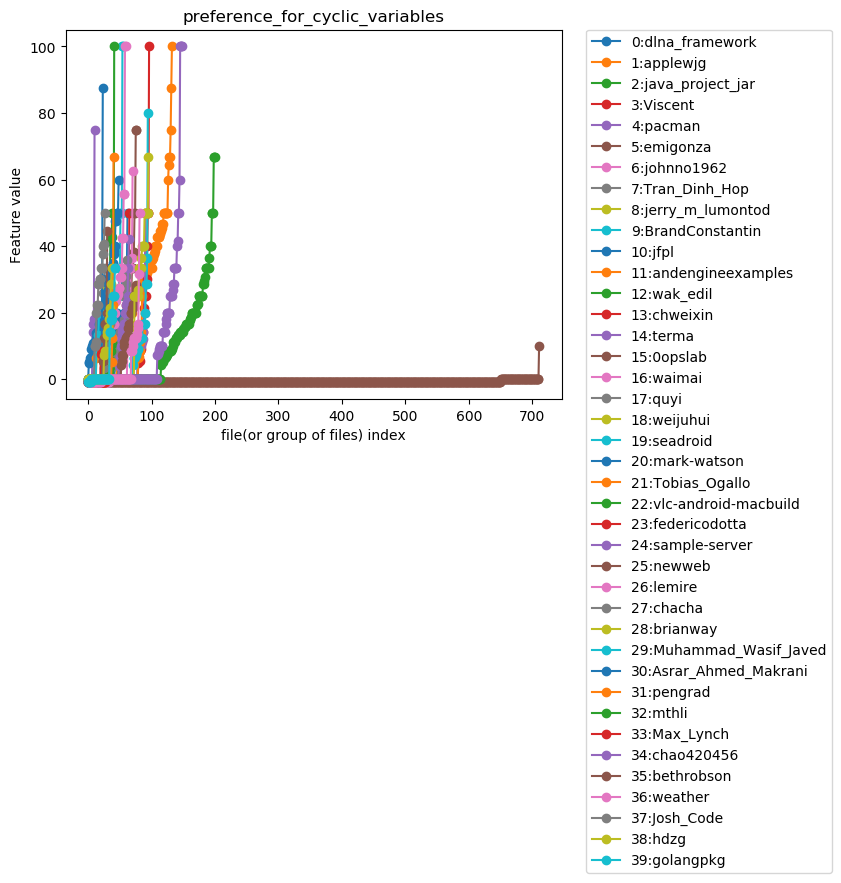
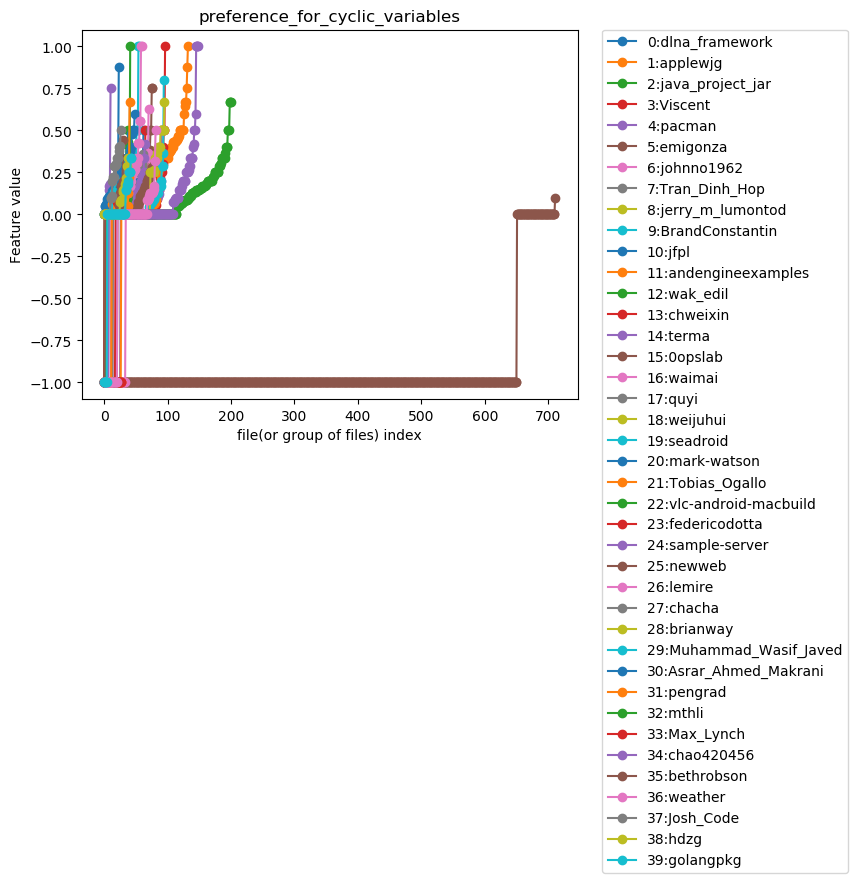
Changed percentage to ratio.

diff --git a/psob_authorship/features/java/ast_metrics/StatementsMetricsCalculator.py b/psob_authorship/features/java/ast_metrics/StatementsMetricsCalculator.py
@@ -7,8 +7,7 @@ import torch
 from psob_authorship.features.java.ast.Ast import Ast
 from psob_authorship.features.java.ast.AstNode import AstNode
 from psob_authorship.features.java.ast.AstVisitor import AstVisitor
-from psob_authorship.features.utils import divide_with_handling_zero_division, \
-    divide_percentage_with_handling_zero_division, divide_nonnegative_with_handling_zero_division, \
+from psob_authorship.features.utils import divide_nonnegative_with_handling_zero_division, \
     divide_ratio_with_handling_zero_division
 
 
@@ -17,39 +16,39 @@ class StatementsMetricsCalculator:
 
     def get_metrics(self, filepaths: Set[str]) -> torch.Tensor:
         return torch.tensor([
-            self.percentage_of_for_statements_to_all_loop_statements(filepaths),
-            self.percentage_of_if_statements_to_all_conditional_statements(filepaths),
+            self.ratio_of_for_statements_to_all_loop_statements(filepaths),
+            self.ratio_of_if_statements_to_all_conditional_statements(filepaths),
             self.average_number_of_methods_per_class(filepaths),
-            self.percentage_of_catch_statements_when_dealing_with_exceptions(filepaths),
+            self.ratio_of_catch_statements_when_dealing_with_exceptions(filepaths),
             self.ratio_of_branch_statements(filepaths),
             self.ratio_of_try_structure(filepaths),
             self.average_number_of_interfaces_per_class(filepaths)
         ])
 
-    def percentage_of_for_statements_to_all_loop_statements(self, filepaths: Set[str]) -> float:
+    def ratio_of_for_statements_to_all_loop_statements(self, filepaths: Set[str]) -> float:
         """
         Loop statements are: while (including do while) and for.
         :param filepaths: paths to files for which metric should be calculated
         :return: (number of for statements) / (number of all loop statements) * 100
         """
-        return divide_percentage_with_handling_zero_division(
+        return divide_ratio_with_handling_zero_division(
             sum([self.fors_for_file[filepath] for filepath in filepaths]),
             sum([self.fors_for_file[filepath] + self.whiles_for_file[filepath] for filepath in filepaths]),
             self.LOGGER,
-            "calculating percentage of for statements to all loop statements for " + str(filepaths)
+            "calculating ratio of for statements to all loop statements for " + str(filepaths)
         )
 
-    def percentage_of_if_statements_to_all_conditional_statements(self, filepaths: Set[str]) -> float:
+    def ratio_of_if_statements_to_all_conditional_statements(self, filepaths: Set[str]) -> float:
         """
         Conditional statements are: if (including if else) and switch.
         :param filepaths: paths to files for which metric should be calculated
         :return: (number of if statements) / (number of all conditional statements) * 100
         """
-        return divide_percentage_with_handling_zero_division(
+        return divide_ratio_with_handling_zero_division(
             sum([self.ifs_for_file[filepath] for filepath in filepaths]),
             sum([self.ifs_for_file[filepath] + self.switches_for_file[filepath] for filepath in filepaths]),
             self.LOGGER,
-            "calculating percentage of if statements to all conditional statements for " + str(filepaths)
+            "calculating ratio of if statements to all conditional statements for " + str(filepaths)
         )
 
     def average_number_of_methods_per_class(self, filepaths: Set[str]) -> float:
@@ -65,7 +64,7 @@ class StatementsMetricsCalculator:
             "calculating average number of methods per class for " + str(filepaths)
         )
 
-    def percentage_of_catch_statements_when_dealing_with_exceptions(self, filepaths: Set[str]) -> float:
+    def ratio_of_catch_statements_when_dealing_with_exceptions(self, filepaths: Set[str]) -> float:
         """
         TODO: Consider if account only one catch per try even if it has several catches.
         TODO: Find out why was below zero? write tests.
@@ -75,11 +74,11 @@ class StatementsMetricsCalculator:
         """
         catches = sum([self.catches_for_file[filepath] for filepath in filepaths])
         tries = max(sum([self.tries_for_file[filepath] for filepath in filepaths]), catches)
-        return divide_percentage_with_handling_zero_division(
+        return divide_ratio_with_handling_zero_division(
             catches,
             tries,
             self.LOGGER,
-            "calculating percentage of if statements to all conditional statements for " + str(filepaths)
+            "calculating ratio of if statements to all conditional statements for " + str(filepaths)
         )
 
     def ratio_of_branch_statements(self, filepaths: Set[str]) -> float:
@@ -168,10 +167,10 @@ class StatementsMetricsCalculator:
     @staticmethod
     def get_metrics_names():
         return [
-            "percentage_of_for_statements_to_all_loop_statements",
-            "percentage_of_if_statements_to_all_conditional_statements",
+            "ratio_of_for_statements_to_all_loop_statements",
+            "ratio_of_if_statements_to_all_conditional_statements",
             "average_number_of_methods_per_class",
-            "percentage_of_catch_statements_when_dealing_with_exceptions",
+            "ratio_of_catch_statements_when_dealing_with_exceptions",
             "ratio_of_branch_statements",
             "ratio_of_try_structure",
             "average_number_of_interfaces_per_class"

diff --git a/psob_authorship/features/java/ast_metrics/VariableMetricsCalculator.py b/psob_authorship/features/java/ast_metrics/VariableMetricsCalculator.py
@@ -6,8 +6,8 @@ import torch
 
 from psob_authorship.features.java.ast.Ast import Ast
 from psob_authorship.features.java.ast.AstSpecificTokensExtractor import AstSpecificTokensExtractor
-from psob_authorship.features.utils import divide_with_handling_zero_division, \
-    divide_percentage_with_handling_zero_division, divide_nonnegative_with_handling_zero_division
+from psob_authorship.features.utils import divide_nonnegative_with_handling_zero_division, \
+    divide_ratio_with_handling_zero_division
 
 
 class VariableMetricsCalculator:
@@ -15,37 +15,37 @@ class VariableMetricsCalculator:
 
     def get_metrics(self, filepaths: Set[str]) -> torch.Tensor:
         return torch.tensor([
-            self.percentage_of_variable_naming_without_uppercase_letters(filepaths),
-            self.percentage_of_variable_naming_starting_with_lowercase_letters(filepaths),
+            self.ratio_of_variable_naming_without_uppercase_letters(filepaths),
+            self.ratio_of_variable_naming_starting_with_lowercase_letters(filepaths),
             self.average_variable_name_length(filepaths),
             self.ratio_of_macro_variables(filepaths),
             self.preference_for_cyclic_variables(filepaths)
         ])
 
-    def percentage_of_variable_naming_without_uppercase_letters(self, filepaths: Set[str]) -> float:
+    def ratio_of_variable_naming_without_uppercase_letters(self, filepaths: Set[str]) -> float:
         """
         This metric uses ast of files so you will need to generate files stated below with PathMiner.
         :param filepaths: paths to files for which metric should be calculated
         :return: variables without uppercase letters metric
         """
-        return divide_percentage_with_handling_zero_division(
+        return divide_ratio_with_handling_zero_division(
             sum([self.number_of_variables_in_lowercase_for_file[filepath] for filepath in filepaths]),
             sum([self.number_of_variables_for_file[filepath] for filepath in filepaths]),
             self.LOGGER,
-            "calculating metric percentage of variable naming without uppercase letters for " + str(filepaths)
+            "calculating metric ratio of variable naming without uppercase letters for " + str(filepaths)
         )
 
-    def percentage_of_variable_naming_starting_with_lowercase_letters(self, filepaths: Set[str]) -> float:
+    def ratio_of_variable_naming_starting_with_lowercase_letters(self, filepaths: Set[str]) -> float:
         """
         This metric uses ast of files so you will need to generate files stated below with PathMiner.
         :param filepaths: paths to files for which metric should be calculated
         :return: variables starting with lowercase letters metric
         """
-        return divide_percentage_with_handling_zero_division(
+        return divide_ratio_with_handling_zero_division(
             sum([self.number_of_variables_starting_with_lowercase_for_file[filepath] for filepath in filepaths]),
             sum([self.number_of_variables_for_file[filepath] for filepath in filepaths]),
             self.LOGGER,
-            "calculating metric percentage of variable naming starting with lowercase letters for " + str(filepaths)
+            "calculating metric ratio of variable naming starting with lowercase letters for " + str(filepaths)
         )
 
     def average_variable_name_length(self, filepaths: Set[str]) -> float:
@@ -68,7 +68,7 @@ class VariableMetricsCalculator:
         :param filepaths: paths to files for which metric should be calculated
         :return: ratio of loops variables to all variables
         """
-        return divide_percentage_with_handling_zero_division(
+        return divide_ratio_with_handling_zero_division(
             sum([self.number_of_variables_in_for_control_for_file[filepath] for filepath in filepaths]),
             sum([self.number_of_variables_for_file[filepath] for filepath in filepaths]),
             self.LOGGER,
@@ -125,8 +125,8 @@ class VariableMetricsCalculator:
     @staticmethod
     def get_metrics_names():
         return [
-            "percentage_of_variable_naming_without_uppercase_letters",
-            "percentage_of_variable_naming_starting_with_lowercase_letters",
+            "ratio_of_variable_naming_without_uppercase_letters",
+            "ratio_of_variable_naming_starting_with_lowercase_letters",
             "average_variable_name_length",
             "ratio_of_macro_variables",
             "preference_for_cyclic_variables"

diff --git a/psob_authorship/features/java/character_metrics/CharacterMetricsCalculator.py b/psob_authorship/features/java/character_metrics/CharacterMetricsCalculator.py
@@ -1,11 +1,11 @@
 import logging
 from collections import defaultdict
-
-import torch
 from typing import Dict, Set
 
-from psob_authorship.features.utils import get_absfilepaths, divide_with_handling_zero_division, \
-    divide_percentage_with_handling_zero_division, divide_nonnegative_with_handling_zero_division
+import torch
+
+from psob_authorship.features.utils import get_absfilepaths, divide_nonnegative_with_handling_zero_division, \
+    divide_ratio_with_handling_zero_division
 
 
 class CharacterMetricsCalculator:
@@ -13,13 +13,13 @@ class CharacterMetricsCalculator:
 
     def get_metrics(self, filepaths: Set[str]) -> torch.Tensor:
         return torch.tensor([
-            self.percentage_of_open_braces_alone_in_a_line(filepaths),
-            self.percentage_of_close_braces_alone_in_a_line(filepaths),
+            self.ratio_of_open_braces_alone_in_a_line(filepaths),
+            self.ratio_of_close_braces_alone_in_a_line(filepaths),
             self.average_character_number_per_java_file(filepaths)
             # TODO: this metric decreases significantly accuracy
         ])
 
-    def percentage_of_open_braces_alone_in_a_line(self, filepaths: Set[str]) -> float:
+    def ratio_of_open_braces_alone_in_a_line(self, filepaths: Set[str]) -> float:
         """
         Counts the following: (number of lines with alone open braces) / (number of lines that contain open braces) * 100
         If open brace is located in comment then it will be counted too.
@@ -28,14 +28,14 @@ class CharacterMetricsCalculator:
         :param filepaths: paths to files for which metric should be calculated
         :return: open braces alone in a line metric
         """
-        return divide_percentage_with_handling_zero_division(
+        return divide_ratio_with_handling_zero_division(
             sum([self.alone_open_braces_for_file[filepath] for filepath in filepaths]),
             sum([self.open_braces_for_file[filepath] for filepath in filepaths]),
             self.LOGGER,
-            "calculating percentage of open braces alone in a line for " + str(filepaths)
+            "calculating ratio of open braces alone in a line for " + str(filepaths)
         )
 
-    def percentage_of_close_braces_alone_in_a_line(self, filepaths: Set[str]) -> float:
+    def ratio_of_close_braces_alone_in_a_line(self, filepaths: Set[str]) -> float:
         """
         Counts the following: (number of lines with alone close braces) / (number of lines that contain close braces) * 100
         If close brace is located in comment then it will be counted too.
@@ -44,11 +44,11 @@ class CharacterMetricsCalculator:
         :param filepaths: paths to files for which metric should be calculated
         :return: close braces alone in a line metric
         """
-        return divide_percentage_with_handling_zero_division(
+        return divide_ratio_with_handling_zero_division(
             sum([self.alone_close_braces_for_file[filepath] for filepath in filepaths]),
             sum([self.close_braces_for_file[filepath] for filepath in filepaths]),
             self.LOGGER,
-            "calculating percentage of close braces alone in a line for " + str(filepaths)
+            "calculating ratio of close braces alone in a line for " + str(filepaths)
         )
 
     def average_character_number_per_java_file(self, filepaths: Set[str]) -> float:
@@ -97,7 +97,7 @@ class CharacterMetricsCalculator:
     @staticmethod
     def get_metric_names():
         return [
-            "percentage_of_open_braces_alone_in_a_line",
-            "percentage_of_close_braces_alone_in_a_line",
+            "ratio_of_open_braces_alone_in_a_line",
+            "ratio_of_close_braces_alone_in_a_line",
             "average_character_number_per_java_file"
         ]

diff --git a/psob_authorship/features/java/line_metrics/LineMetricsCalculator.py b/psob_authorship/features/java/line_metrics/LineMetricsCalculator.py
@@ -2,12 +2,12 @@ import logging
 import os
 import subprocess
 from collections import defaultdict
-
-import torch
 from typing import Dict, Set, List
 
-from psob_authorship.features.utils import divide_with_handling_zero_division, get_absfilepaths, \
-    divide_percentage_with_handling_zero_division, divide_ratio_with_handling_zero_division, \
+import torch
+
+from psob_authorship.features.utils import get_absfilepaths, \
+    divide_ratio_with_handling_zero_division, \
     divide_nonnegative_with_handling_zero_division
 
 
@@ -18,7 +18,7 @@ class LineMetricsCalculator:
         return torch.tensor([
             self.ratio_of_blank_lines_to_code_lines(filepaths),
             self.ratio_of_comment_lines_to_code_lines(filepaths),
-            self.percentage_of_block_comments_to_all_comment_lines(filepaths)
+            self.ratio_of_block_comments_to_all_comment_lines(filepaths)
         ])
 
     def ratio_of_blank_lines_to_code_lines(self, filepaths: Set[str]) -> float:
@@ -54,19 +54,19 @@ class LineMetricsCalculator:
             "calculating ratio of comment lines to code lines for " + str(filepaths)
         )
 
-    def percentage_of_block_comments_to_all_comment_lines(self, filepaths: Set[str]) -> float:
+    def ratio_of_block_comments_to_all_comment_lines(self, filepaths: Set[str]) -> float:
         """
         Block comment size is number of comment lines in block comment.
 
         :param filepaths: paths to files for which metric should be calculated
         :return: block comment lines metric
         """
-        return divide_percentage_with_handling_zero_division(
+        return divide_ratio_with_handling_zero_division(
             sum([self.comment_lines_for_file[filepath] - self.single_line_comments_for_file[filepath]
                  for filepath in filepaths]),
             sum([self.comment_lines_for_file[filepath] for filepath in filepaths]),
             self.LOGGER,
-            "calculating percentage of block comments to all comment lines for " + str(filepaths)
+            "calculating ratio of block comments to all comment lines for " + str(filepaths)
         )
 
     def __init__(self, dataset_path: str) -> None:
@@ -123,5 +123,5 @@ class LineMetricsCalculator:
         return [
             "ratio_of_blank_lines_to_code_lines",
             "ratio_of_comment_lines_to_code_lines",
-            "percentage_of_block_comments_to_all_comment_lines"
+            "ratio_of_block_comments_to_all_comment_lines"
         ]

diff --git a/psob_authorship/experiment/one_split_fit.py b/psob_authorship/experiment/one_split_fit.py
@@ -13,6 +13,7 @@ from psob_authorship.model.Model import Model
 
 CONFIG = {
     'experiment_name': os.path.basename(__file__).split('.')[0],
+    'experiment_notes': "change: percentage to ratio (no <* 100>)",
     'number_of_authors': 40,
     'labels_features_common_name': "../calculated_features/split_each_file",
     'metrics': [1, 2, 3, 4, 6, 7, 8, 9, 10, 11, 12, 13, 14, 15, 16, 17, 18],
@@ -20,7 +21,7 @@ CONFIG = {
     'batch_size': 32,
     'early_stopping_rounds': 350,
     'lr': 0.02,
-    'cv': StratifiedKFold(n_splits=3, random_state=0),
+    'cv': StratifiedKFold(n_splits=10, random_state=0, shuffle=True),
     'scoring': "accuracy",
     'criterion': nn.CrossEntropyLoss,
     'optimizer': optim.SGD,
